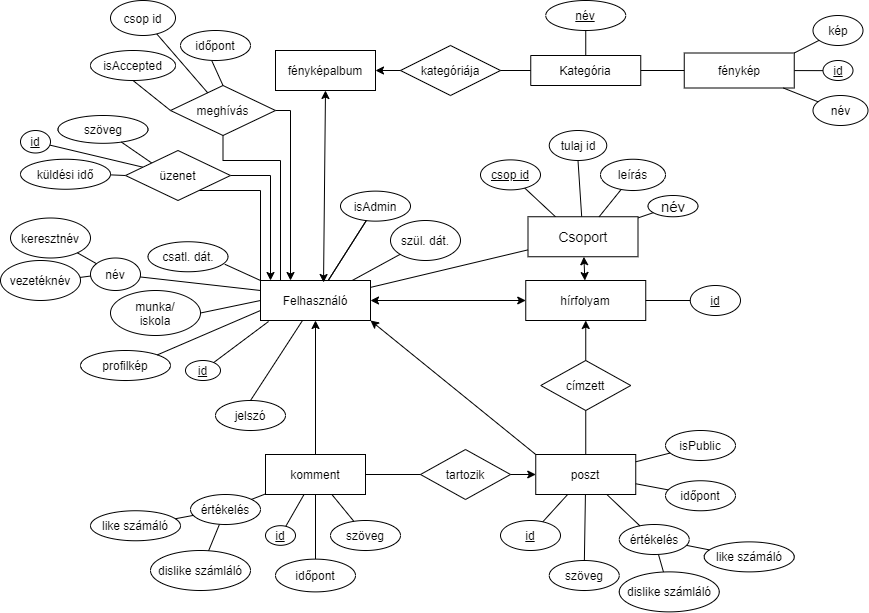
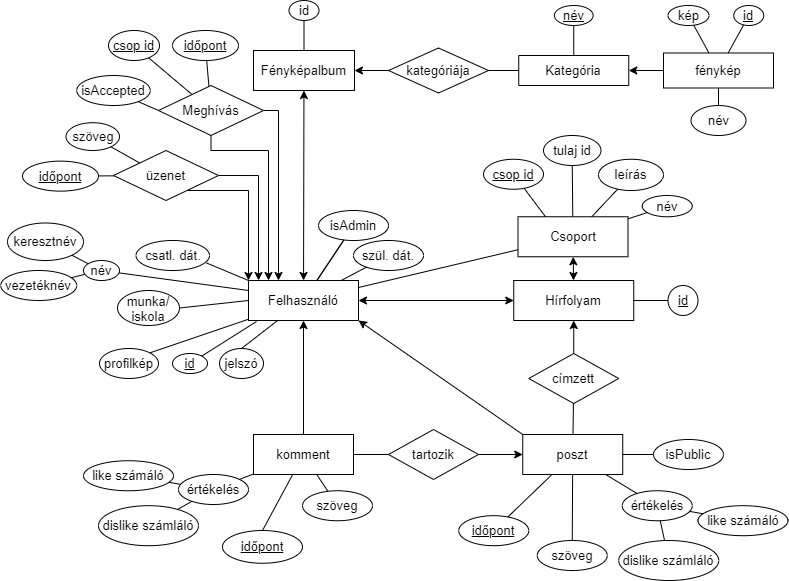
végleges EK, relációséma leképezés

diff --git a/docs/README.md b/docs/README.md
@@ -164,15 +164,15 @@ További finomítás: mik lehetnek az egyes egyedek attribútumai
 ## EK leképezés
 
 - Fénykép (__id__, kép, név, *kategoria_id*)
-- Kategória (__név__)
-- Fényképalbum (__*Felhasználó\_id*__,*kategória.név*)
-- Felhasználó (__id__, jelszó, szül.dát, isAdmin, csatlakozásDátum, keresztnév, vezetéknév, munka-iskola, profilkép, *Hírfolyam\_id*)
-- Üzenet (__id__, __*Felhasználó\_id*__, __*Címzett\_id*__ , szöveg , küldésIdő)
-- Meghívás (__*Felhasználó\_id*__, __*Címzett\_id*__, __*Csoport\_id*__, küldésIdő, isAccepted)
+- Kategória (__név__, __*Fényképalbum\_id*__)
+- Fényképalbum (__id__, *Felhasználó\_id*)
+- Felhasználó (__id__, jelszó, szül_dát, admin_e, csatlakozásDátum, keresztnév, vezetéknév, munka_iskola, profilkép, *Hírfolyam\_id*)
+- Üzenet (**időpont**, __*Felhasználó\_id*__, __*Címzett\_id*__ , szöveg)
+- Meghívás (__*Felhasználó\_id*__, __*Címzett\_id*__, __*Csoport\_id*__, időpont, elfogadva)
 - Csoport (__csoportId__, leírás, név, *tulaj\_id*, *Hírfolyam\_id*)
 - Hírfolyam (__id__)
-- Poszt (__id__, __*Hírfolyam\_id*__, szöveg, dislike, like, időpont, isPublic)
-- Komment (__id__, __*Felhaszánló\_id*__ , __*Poszt\_id*__ , szöveg, időpont, like, dislike)
+- Poszt (**időpont**, __*Hírfolyam\_id*__, __*Felhasználó\_id*__, szöveg, dislike, like, nyilvános)
+- Komment (**időpont**, __*Felhaszánló\_id*__ , __*Poszt\_id*__ , szöveg, like, dislike)
 
 ## Szerep funkció mátrix
 
